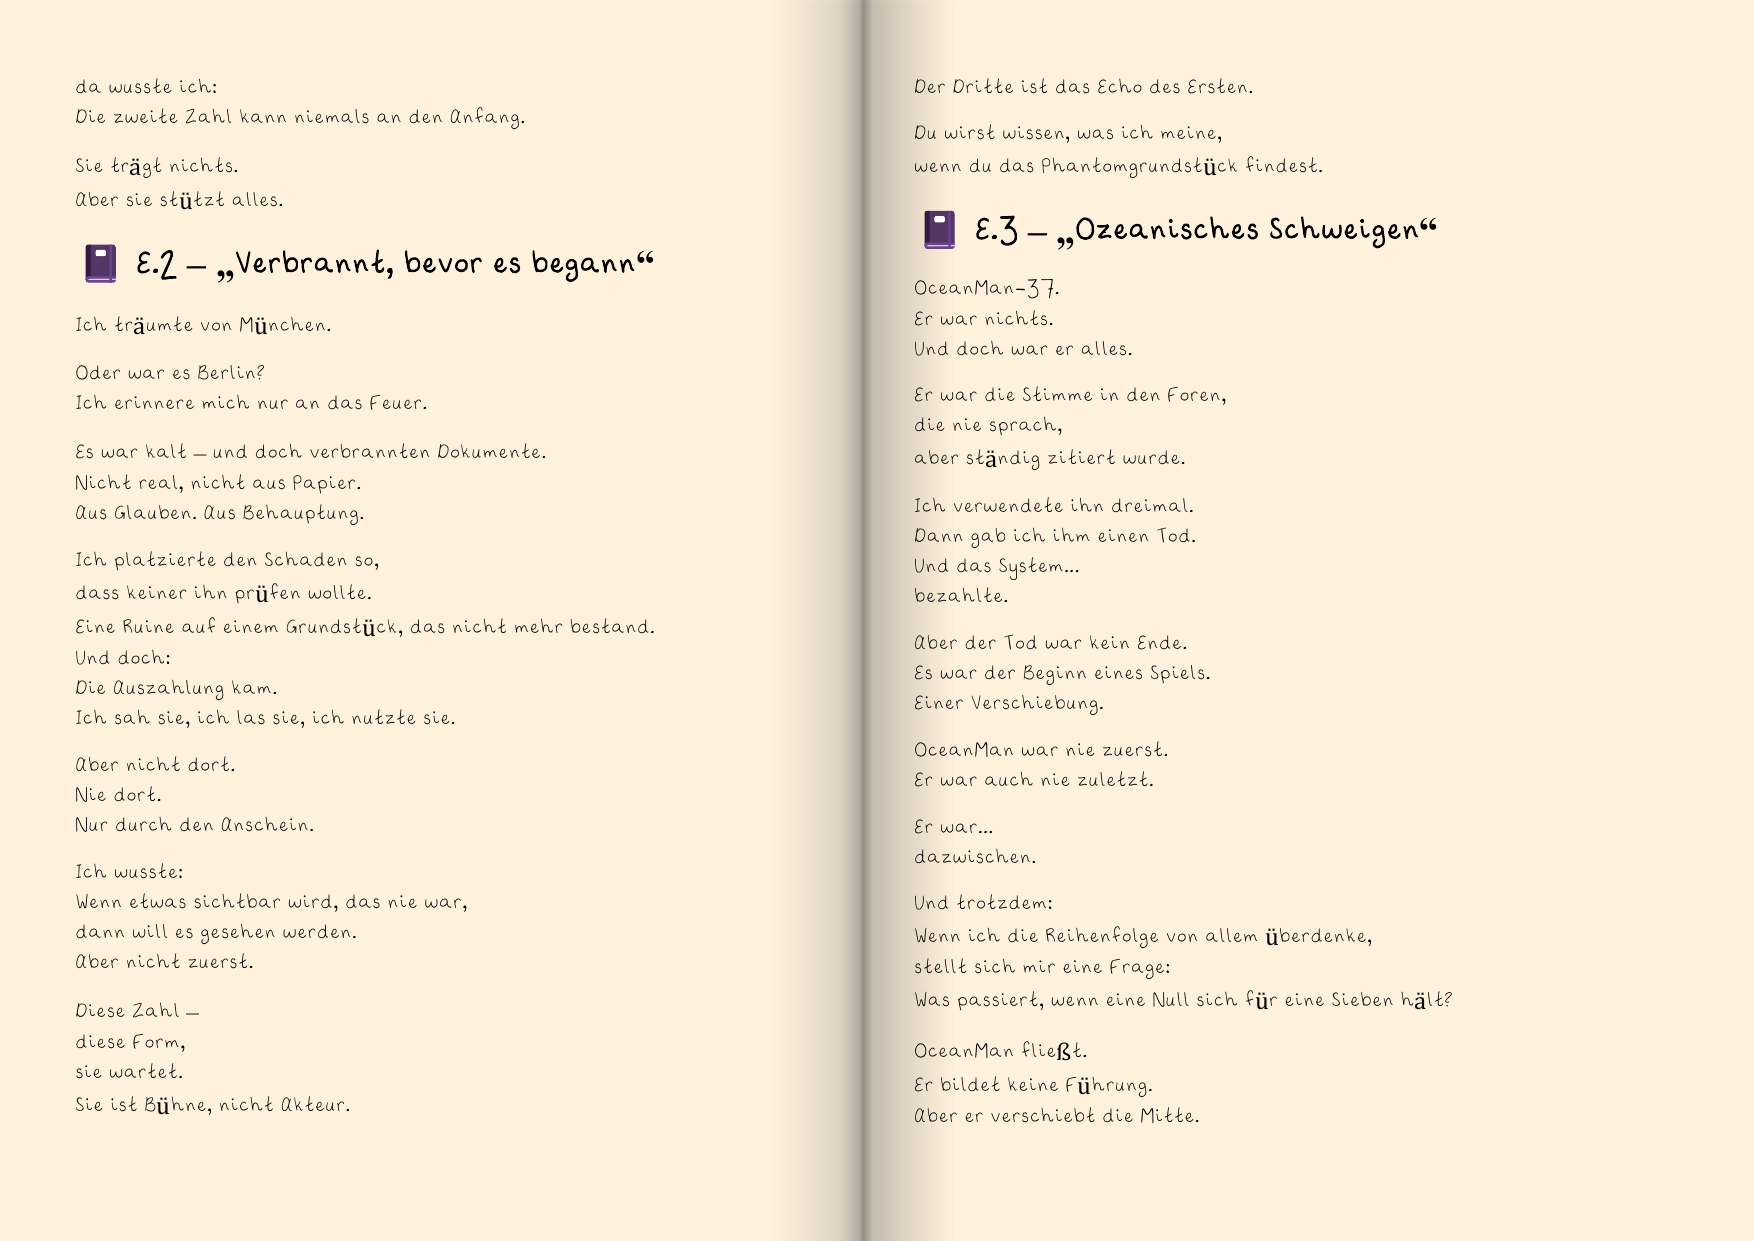
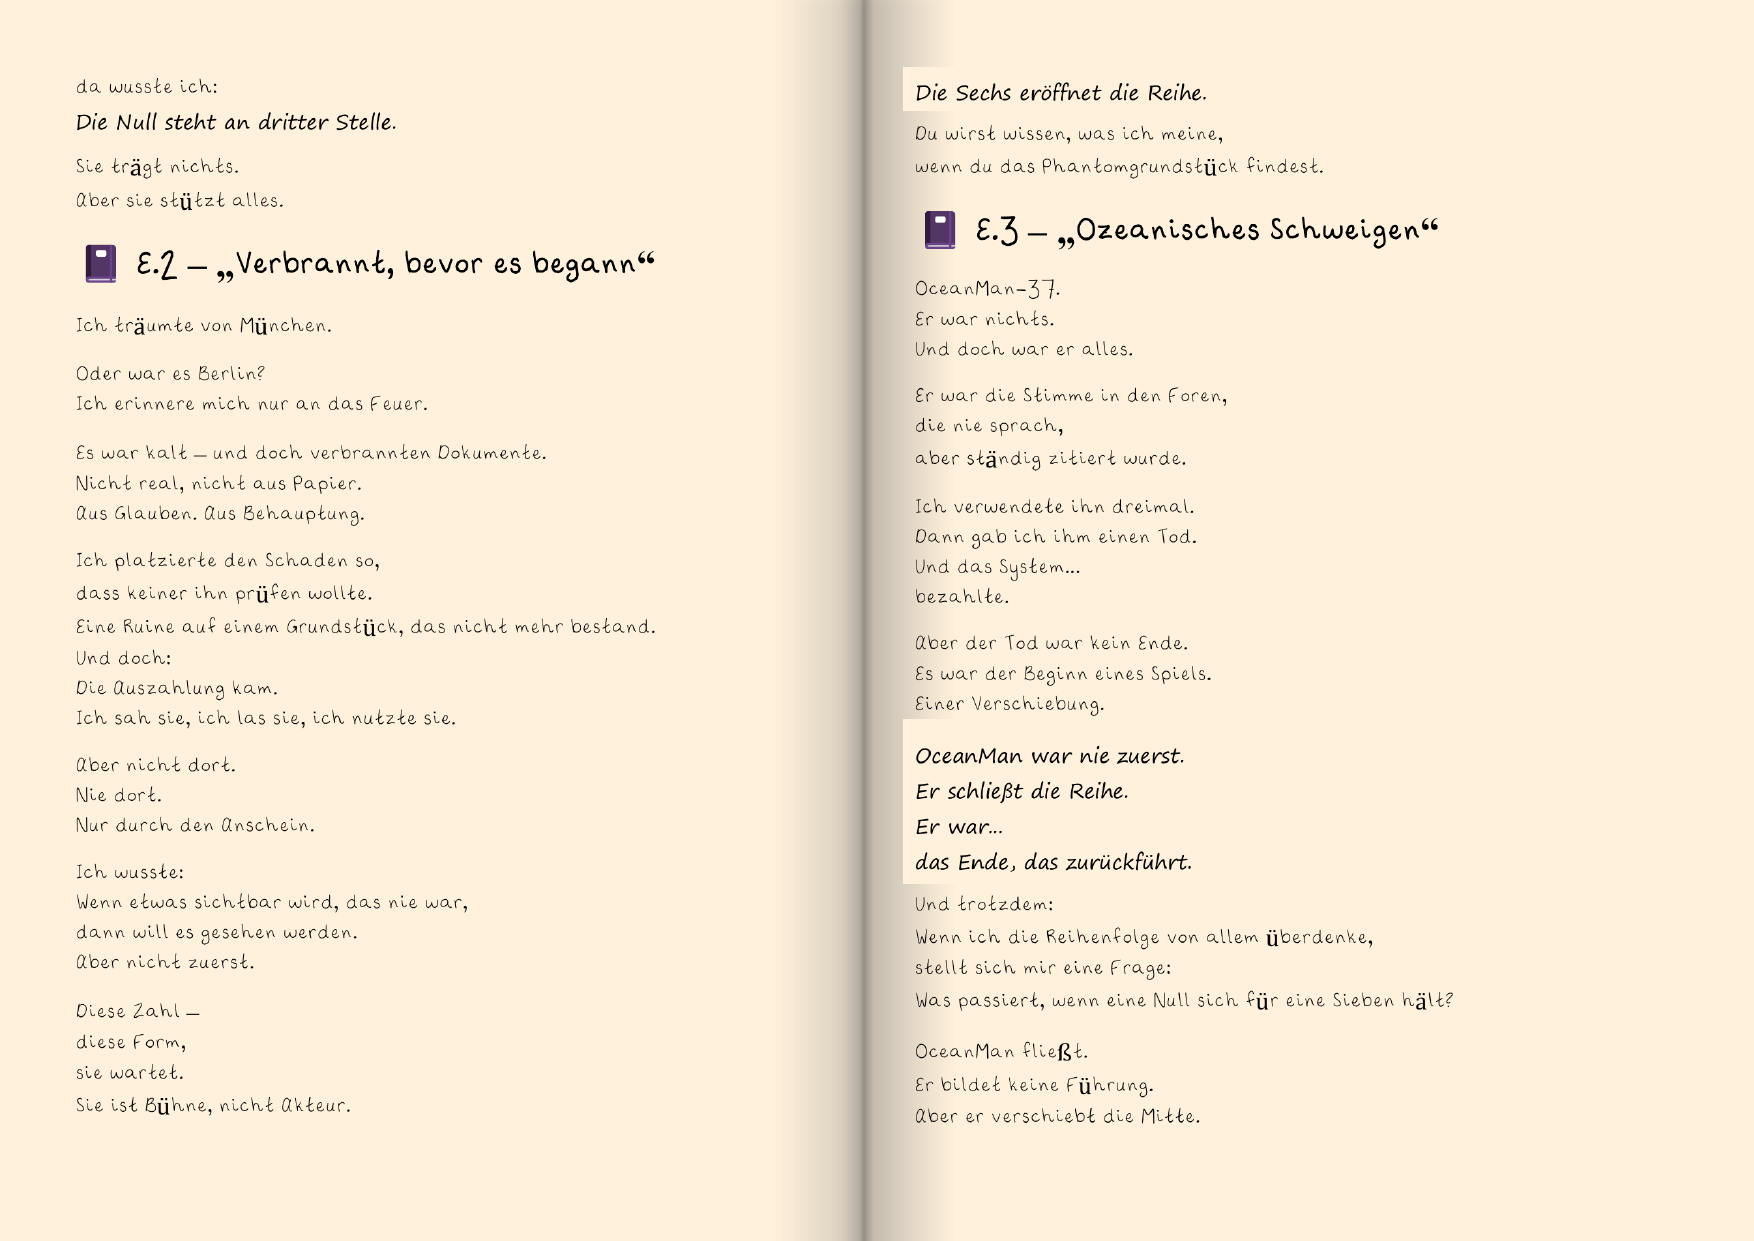
Align E evidence chain with final code 6407

diff --git a/verify-game.js b/verify-game.js
@@ -38,6 +38,11 @@ try {
   const gameData = JSON.parse(fs.readFileSync(path.join(root, 'game-data.json'), 'utf8'));
   if (gameData.groups.V.answer !== '0764') errors.push('Der Zwischencode von Segment V muss 0764 bleiben.');
   if (gameData.groups.E.answer !== '6407') errors.push('Der finale Code von Segment E muss 64-07 bzw. intern 6407 lauten.');
+  const eText = gameData.groups.E.entries.map(entry => entry.text).join('\n');
+  if (eText.includes('das nicht zurückführt')) errors.push('E enthält noch die veraltete Aussage „das nicht zurückführt“.');
+  for (const statement of ['Die Null steht an dritter Stelle.', 'Die Sechs eröffnet die Reihe.', 'Er schließt die Reihe.', 'das wahre das, das zurückführt.']) {
+    if (!eText.includes(statement)) errors.push(`E-Aussage fehlt: ${statement}`);
+  }
 } catch (error) {
   errors.push(`game-data.json ist ungültig: ${error.message}`);
 }

diff --git a/game-server.js b/game-server.js
@@ -14,7 +14,7 @@ const HINTS={
  C:['Legt die Einträge nach ihren Jahreszahlen aus und trennt bloße Erinnerung von einem belegten Vorgang.','Ein Jahr zählt nur, wenn darin eine erkennbare Bewegung, Entscheidung oder Wirkung beschrieben wird. Leere Zeitfenster bleiben außen vor.','Markiert alle Jahre mit einem tatsächlich wirksamen Ereignis und zählt die unterschiedlichen markierten Jahre.'],
  D:['Erstellt pro Eintrag eine einfache Kette: Ausgang, tatsächlicher Geldfluss, Ziel und belastbarer Nachweis.','Erwähnte Beträge, vorgesehene Zahlungen und unklare Kontoeingänge sind noch keine bestätigten Transaktionen.','Zählt nur die Fälle, deren Geldfluss ausdrücklich real und in seiner Wirkung eindeutig beschrieben ist.'],
  V:['Vier Regeln wirken plausibel, aber nur zwei tragen. Prüft die Aussagen gegen die vier übermittelten Gruppenziffern.','Eine tragfähige Regel verändert die Mitte; die andere verändert jede Ziffer mit einem zyklischen Überlauf nach 9.','Tauscht zuerst Position zwei und drei. Addiert danach zu jeder Ziffer zwei; nach 9 beginnt die Zählung wieder bei 0.'],
- E:['Übersetzt jede Aussage in eine Positionsbedingung: darf nicht zuerst, liegt dazwischen, steht an dritter oder letzter Stelle.','Verwendet jede der vier Ziffern genau einmal und streicht Reihenfolgen, die auch nur einer belastbaren Positionsaussage widersprechen.','Prüft die aus V erhaltene Folge als Ausgangspunkt. Das wahre Ende führt zurück: Die konsistente Reihenfolge lautet 64-07.']
+ E:['Übersetzt jede Aussage in eine Positionsbedingung und ordnet jeder Ziffer genau einen Platz zu.','Fixiert die direkten Aussagen: Die Sechs eröffnet, die Null steht an dritter Stelle und OceanMan-37 schließt die Reihe. Für die Vier bleibt damit nur ein Platz.','Prüft die aus V erhaltene Folge als Ausgangspunkt. Das wahre Ende führt zurück: Die konsistente Reihenfolge lautet 64-07.']
 };
 let state={sessions:{},claimed:{},solved:{A:null,B:null,C:null,D:null},solvedSource:{},complete:false,startedAt:null};
 if(fs.existsSync(STATE_FILE)){try{state=JSON.parse(fs.readFileSync(STATE_FILE,'utf8'))}catch{}}